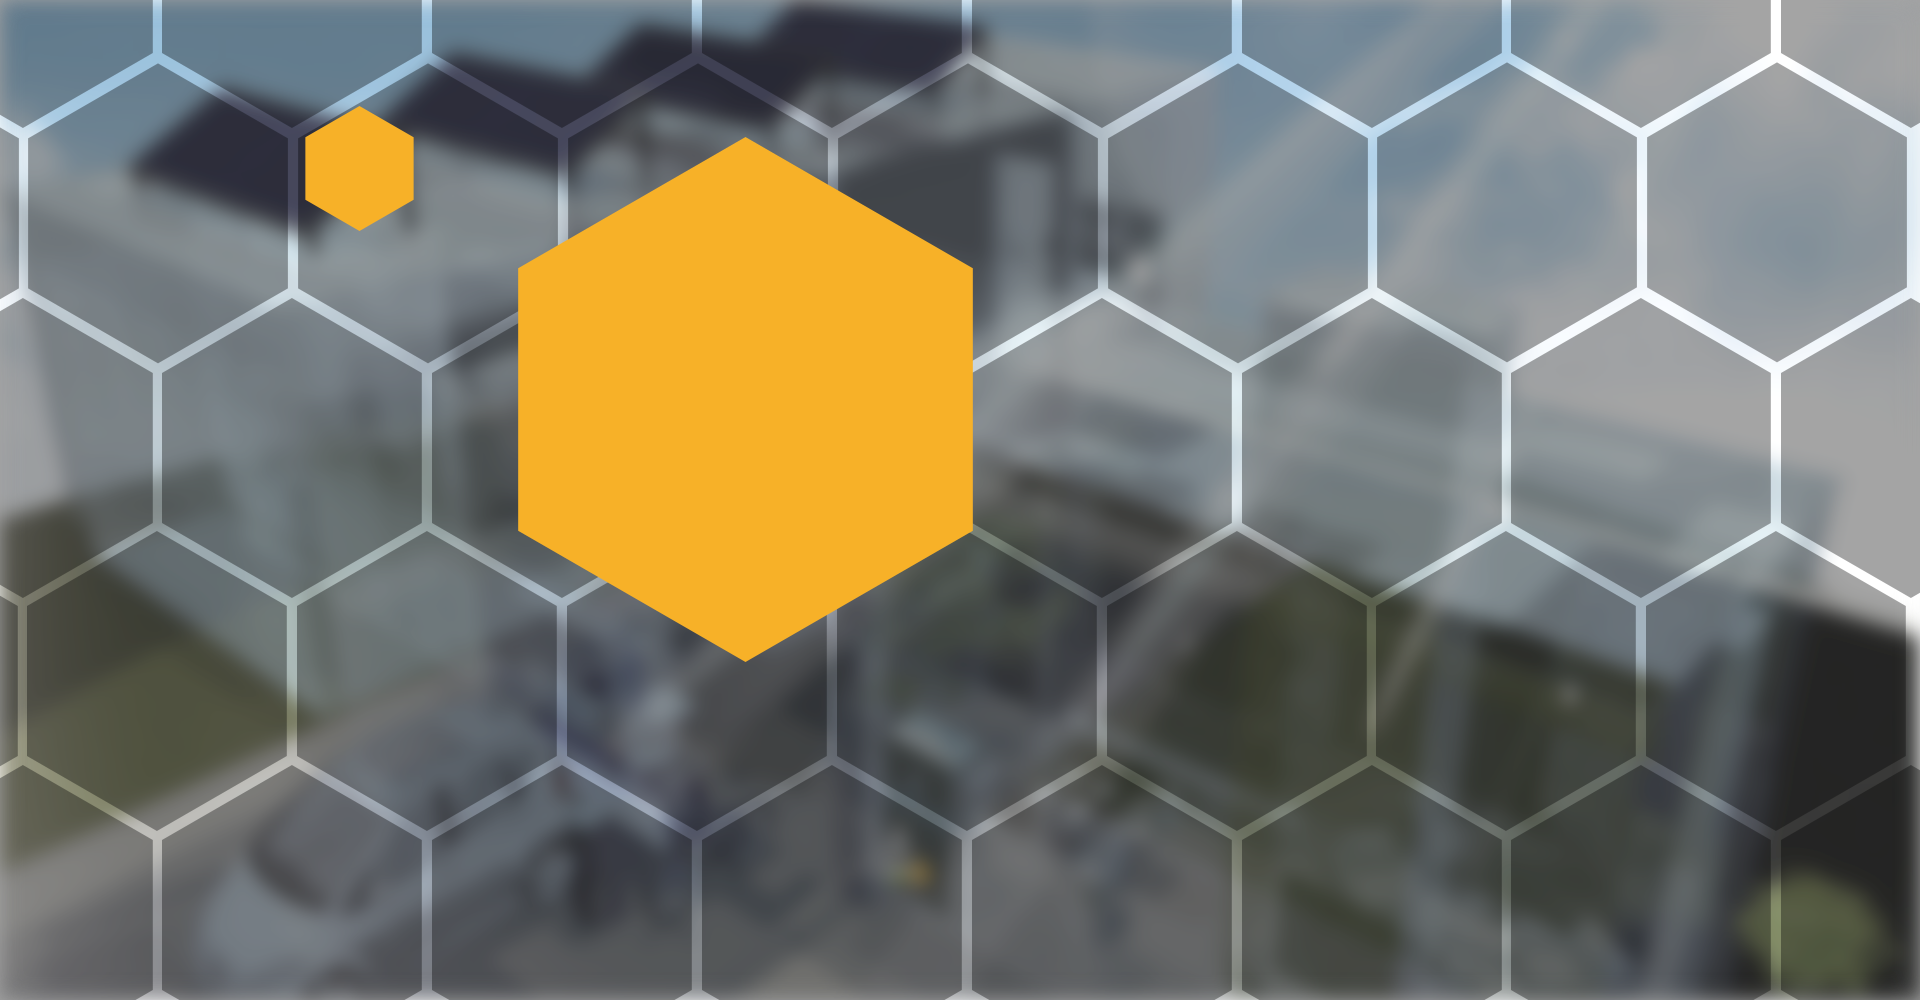
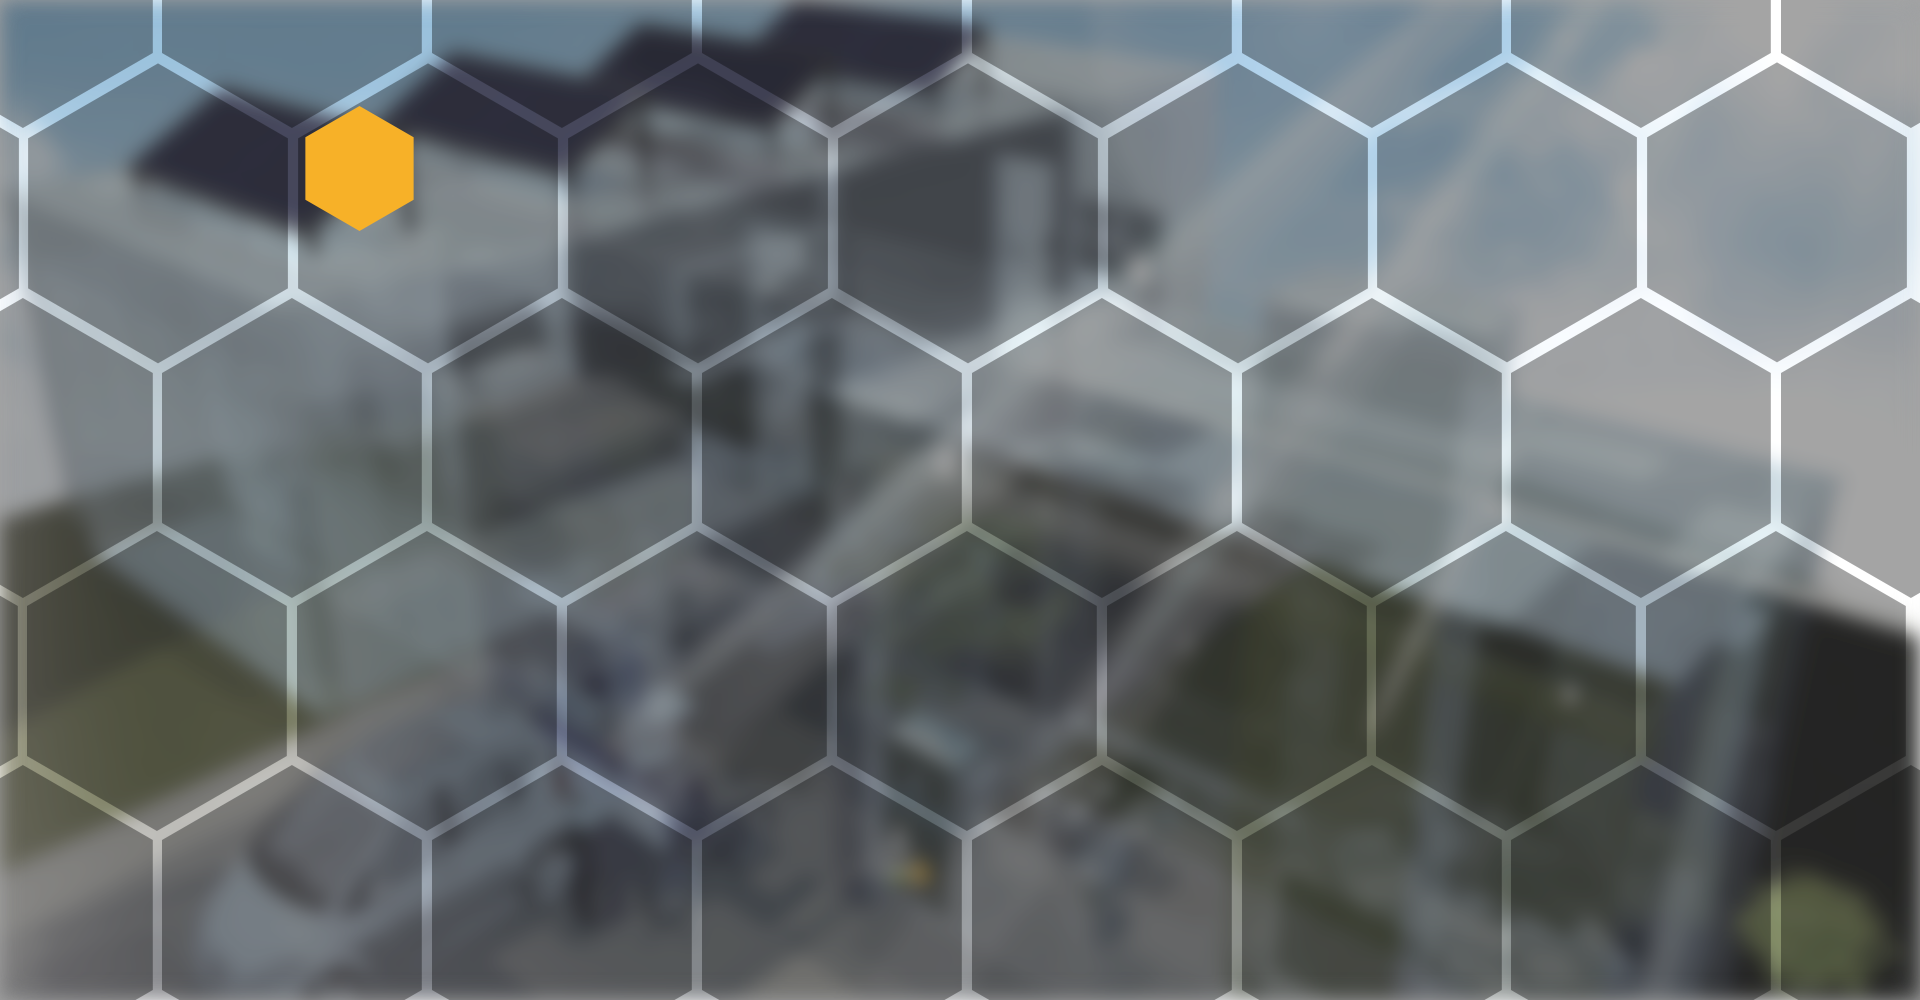
fix css problems

Changed region(s): [[0.25, 0.124, 0.5312, 0.682]]

diff --git a/product.html b/product.html
@@ -51,6 +51,7 @@
 						The electricity provided by the PV system can power loads directly, while charging
 						the battery. The surplus solar energy can be fed into the grid.
 					</p>
+					<a href="#">Learn More</a>
 				</div>
 			</div>
 			<div class="feature feature-2">
@@ -61,12 +62,14 @@
 					<p class="feature-detail-content">
 						Via an integrated control system and adaptive logic, the EMS controls and optimizes
 					</p>
+					<a href="#">Learn More</a>
 				</div>
 				<div class="feature-detail">
 					<span class="point"></span>
 					<p class="feature-detail-content">
 						the flow of energy to realize the maximum PV self-consumption rate.
 					</p>
+					<a href="#">Learn More</a>
 				</div>
 			</div>
 		</div>
@@ -133,6 +136,7 @@
 					</div>
 				</li>
 			</ul>
+			<a href="#">Learn More</a>
 		</div>
 		<div class="content content-3">
 			<div class="mixed">
@@ -162,6 +166,7 @@
 							Not only does this act as a backup during a grid outage but it also optimizes the self-consumption rate.
 						</p>
 					</div>
+					<a href="#">Learn More</a>
 				</div>
 			</div>
 		</div>

diff --git a/css/index.css b/css/index.css
@@ -12,6 +12,7 @@
   background-image: url(../img/index/first/first.png);
   z-index:10;
   position:relative;
+  padding-top:80px;
 }
 
 .content-2{
@@ -24,10 +25,21 @@
   color:#FFF;
   font-size:72px;
   position:relative;
-  left:580px;
-  top: 280px;
+  left:10%;
+  top: 80px;
   font-weight: bold;
   float:left;
+  background-image: url(../img/index/mask.png);
+  width:455px;
+  height:525px;
+}
+
+.slogan>div:first-child{
+  margin-top:150px;
+}
+
+.slogan>div{
+  margin-left:20px;
 }
 
 .photo-up{

diff --git a/index.html b/index.html
@@ -32,7 +32,7 @@
 					<li><span class="logo"></span></li>
 					<li class="menu-button"><a href="#">Home</a></li>
 					<li class="menu-button"><a href="#">About Us</a></li>
-					<li class="menu-button"><a href="#">Products</a></li>
+					<li class="menu-button"><a href="product.html">Products</a></li>
 					<li class="menu-button"><a href="#">News</a></li>
 					<li class="menu-button"><a href="#">Contact</a></li>
 					<li class="menu-button"><a href="#">Login</a></li>

diff --git a/css/common.css b/css/common.css
@@ -2,6 +2,9 @@
     background-repeat:repeat-x;
     height:80px;
     background-color: #525252;
+    position:fixed;
+    width:100%;
+    z-index:9999;
 }
 .head-menu{
     font-size:24px;
@@ -42,9 +45,16 @@
     background-color:#F7B128;
 }
 
+.navi{
+    padding-top:80px;
+}
+
 .navi>ul{
     margin:0 auto;
     width:1000px;
+}
+.navi li{
+    cursor:pointer;
 }
 
 .icon-menu{
